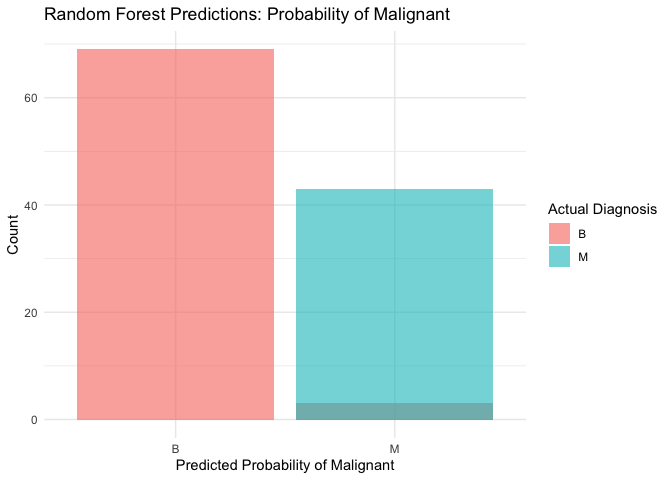
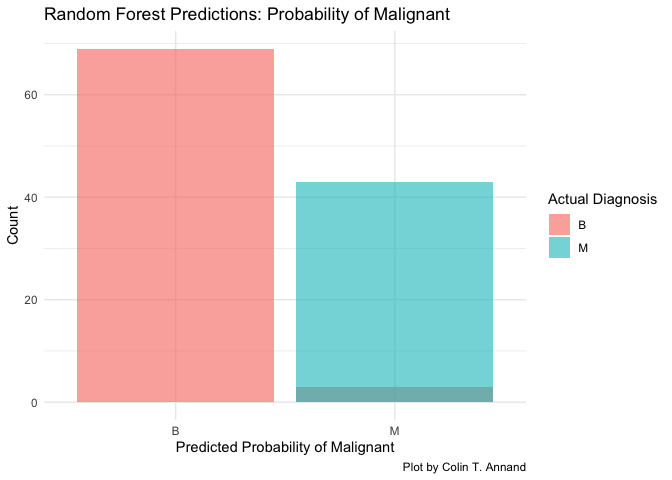
recommit intial files

diff --git a/01_data_wrangling.md b/01_data_wrangling.md
@@ -1,9 +1,9 @@
 1_data_wrangling
 ================
-…
+CTA-PHD-DWZ
 2025-10-01
 
-# Analysis Scripts
+# Analysis Scripts:: Colin T. Annand - Ph.D., D.WZ.
 
 - **Description:**
   - Create two analysis scripts:
@@ -87,7 +87,8 @@ raw_dat %>% mutate(diag_text = ifelse(diagnosis=="B", "Benign", "Malignant")) %>
   labs(title="Mean Radius vs Mean Texture by Diagnosis Type",
        x="Mean Radius",
        y="Mean Texture",
-       color="Diagnosis Type") +
+       color="Diagnosis Type",
+       caption = "Plot by Colin T. Annand") +
   theme_minimal()
 ```
 
@@ -169,8 +170,12 @@ rf_predictions %>%
   labs(title = "Random Forest Predictions: Probability of Malignant",
        x = "Predicted Probability of Malignant",
        y = "Count",
-       fill = "Actual Diagnosis") +
+       fill = "Actual Diagnosis",
+       caption = "Plot by Colin T. Annand") +
   theme_minimal()
 ```
 
-![](_plot_images/unnamed-chunk-13-1.png)<!-- -->
+![](_plot_images/unnamed-chunk-13-1.png)<!-- --> \### CTA Comments -
+This bar plot is showing the model predictions vs accuracy. Essentially,
+the SMALL OVERLAP in the light Blue (M) for malignant is showing where
+the model classified a BENIGN tumor as Malignant.
